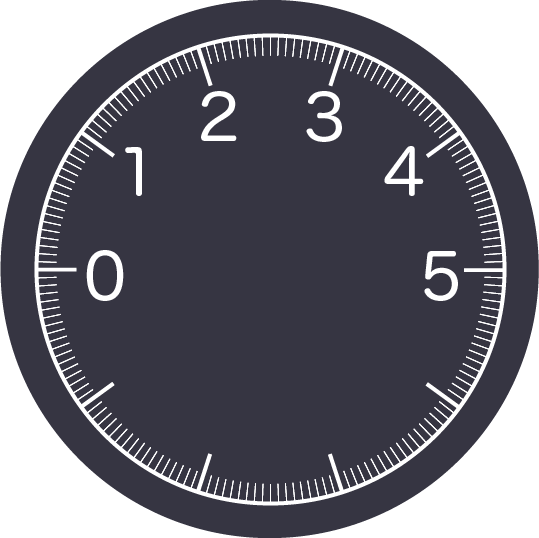
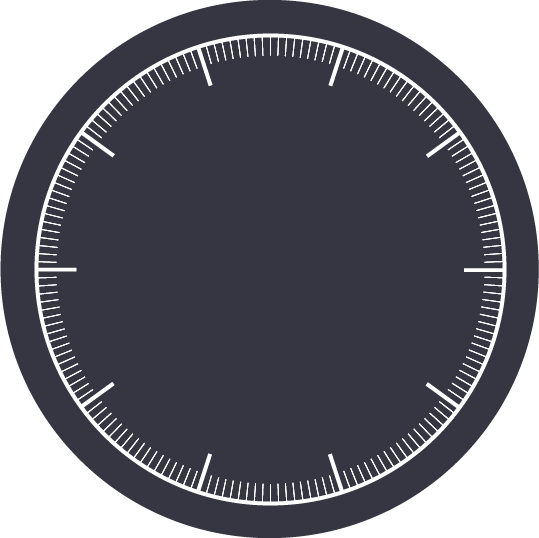
バッテリーセレクタの新素材を追加した

diff --git a/src/resource/canvas-image.js b/src/resource/canvas-image.js
@@ -31,6 +31,7 @@ export const CANVAS_IMAGE_IDS = {
   BATTERY_NEEDLE: 'BATTERY_NEEDLE',
   BATTERY_LABEL_ATTACK: 'BATTERY_LABEL_ATTACK',
   BATTERY_LABEL_DEFENSE: 'BATTERY_LABEL_DEFENSE',
+  BATTERY_SELECTOR_NUMBER: 'BATTERY_SELECTOR_NUMBER',
   TURN_INDICATOR: 'TURN_INDICATOR',
   BURST_BUTTON: 'BURST_BUTTON',
   BIG_BUTTON_DISABLED: 'BIG_BUTTON_DISABLED',
@@ -92,6 +93,10 @@ export const CANVAS_IMAGE_CONFIGS: CanvasImageConfig[] = [
   {
     id: CANVAS_IMAGE_IDS.BATTERY_LABEL_DEFENSE,
     path: 'battery-selector/defense-label.png',
+  },
+  {
+    id: CANVAS_IMAGE_IDS.BATTERY_SELECTOR_NUMBER,
+    path: 'battery-selector/active-number.png',
   },
   {
     id: CANVAS_IMAGE_IDS.TURN_INDICATOR,
